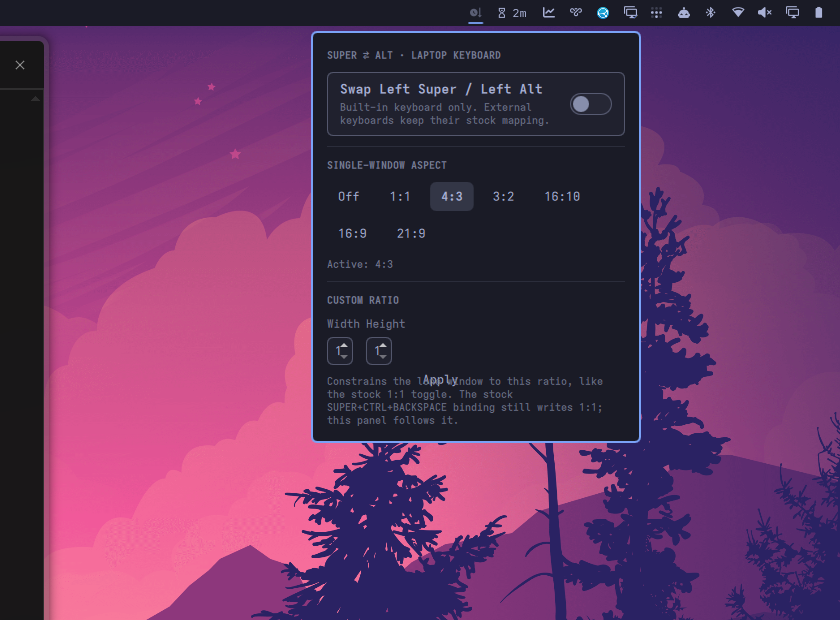
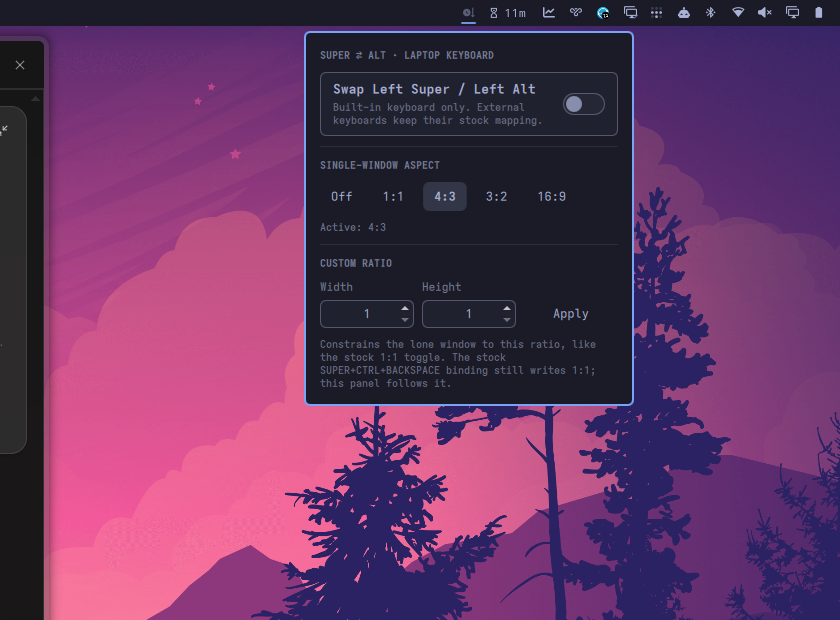
Panel polish: trim presets to 1:1/4:3/3:2/16:9, 3-column custom row
User feedback: drop 16:10 and 21:9 presets; Width/Height fields and the
Apply button share one line as three equal-width columns. The old
anchors.baseline inside the Row was invalid and caused the Apply button
to overlap the caption text.

diff --git a/ToolPanel.qml b/ToolPanel.qml
@@ -89,15 +89,21 @@ Panel {
 
         PanelSectionHeader { text: "CUSTOM RATIO" }
 
+        // Three equal columns on one line — W field, H field, Apply — each
+        // filling a third of the row. The Apply cell bottom-aligns with the
+        // spinboxes (it has no label above it).
         Row {
-            spacing: Style.spacing.md
+            id: customRow
+            width: parent.width
+            spacing: Style.spacing.controlGap
+            readonly property real cellW: (width - 2 * spacing) / 3
 
             NumberField {
               id: customW
               label: "Width"
               from: 1
               to: 64
-              fieldWidth: Style.space(26)
+              fieldWidth: customRow.cellW
             }
 
             NumberField {
@@ -105,14 +111,20 @@ Panel {
               label: "Height"
               from: 1
               to: 64
-              fieldWidth: Style.space(26)
+              fieldWidth: customRow.cellW
             }
 
-            Button {
-              text: "Apply"
-              anchors.baseline: customW.bottom
-              onClicked: if (root.tool)
-                root.tool.setAspect(customW.field.value, customH.field.value)
+            Item {
+              width: customRow.cellW
+              height: customH.height
+
+              Button {
+                text: "Apply"
+                width: parent.width
+                anchors.bottom: parent.bottom
+                onClicked: if (root.tool)
+                  root.tool.setAspect(customW.field.value, customH.field.value)
+              }
             }
 
             Component.onCompleted: {

diff --git a/BarWidget.qml b/BarWidget.qml
@@ -65,9 +65,7 @@ BarWidget {
     { label: "1:1", w: 1, h: 1 },
     { label: "4:3", w: 4, h: 3 },
     { label: "3:2", w: 3, h: 2 },
-    { label: "16:10", w: 16, h: 10 },
-    { label: "16:9", w: 16, h: 9 },
-    { label: "21:9", w: 21, h: 9 }
+    { label: "16:9", w: 16, h: 9 }
   ]
 
   function aspectIsPreset(w, h) {

diff --git a/README.md b/README.md
@@ -3,7 +3,7 @@
 A minimal-resource Omarchy bar plugin combining two Hyprland toggles behind one icon:
 
 - **Super ⇄ Alt swap** — swap Left Super and Left Alt on the built-in laptop keyboard (external keyboards keep their stock mapping). Successor of `glasschan.super-alt-swap`.
-- **Single-window aspect ratio** — constrain the lone window to a chosen ratio: presets (1:1, 4:3, 3:2, 16:10, 16:9, 21:9), any custom `W:H` up to 64, or off.
+- **Single-window aspect ratio** — constrain the lone window to a chosen ratio: presets (1:1, 4:3, 3:2, 16:9), any custom `W:H` up to 64, or off.
 
 ## Bar usage
 
